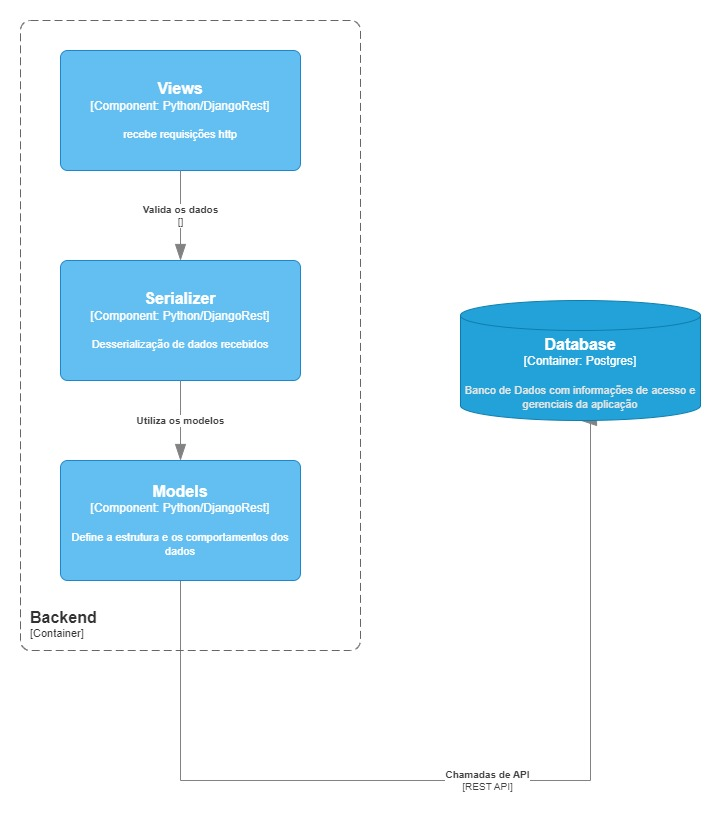
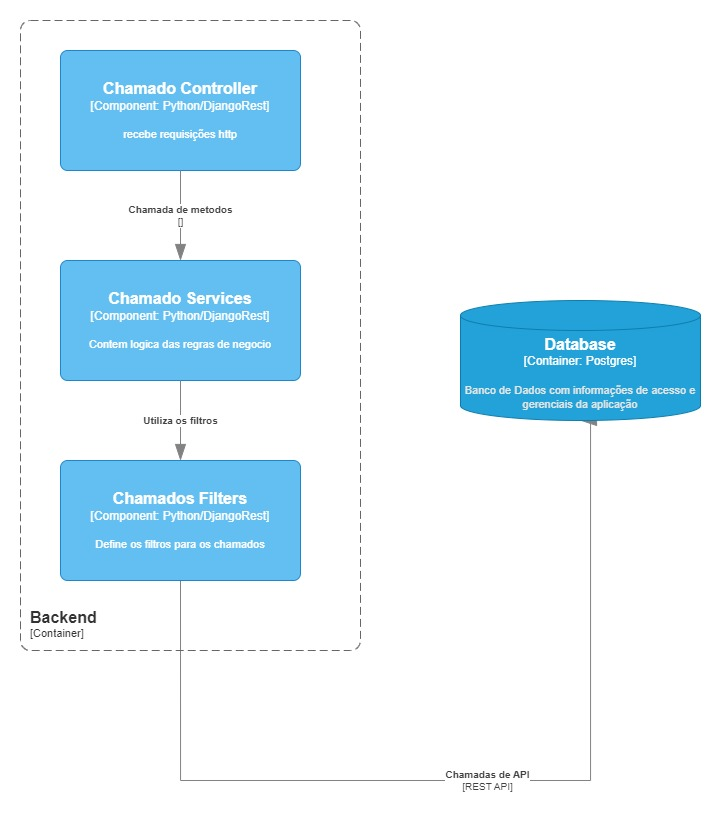
att: Cores dos status do chamado e Diagrama de Componentes do backend

diff --git a/gamb-front/src/componentes/GambTable/tableStyles.tsx b/gamb-front/src/componentes/GambTable/tableStyles.tsx
@@ -13,11 +13,11 @@ export const HeadTr = styled.tr`
 const actionColors: Record<number, string> = {
   1: "#9E9E9E",
   2: "#12A400",
-  3: "#DC3545",
-  4: "#DC3545",
-  5: "#7C74DA",
-  6: "#FFD454",
-  7: "#61B3FF",
+  3: "#ce962f",
+  4: "#7C74DA",
+  5: "#61B3FF",
+  6: "#3b3b3b",
+  7: "#117005",
 };
 
 interface StatusProps {
@@ -29,7 +29,7 @@ export const StatusBadge = styled.span<StatusProps>`
   border-radius: 5px;
   color: #fff;
   font-size: 12px;
-  background: ${({ $status }) => actionColors[$status] || "#7C7C7C"};
+  background: ${({ $status }) => actionColors[$status] || "#DC3545"};
 `;
 
 export const HeadTh = styled.th`
